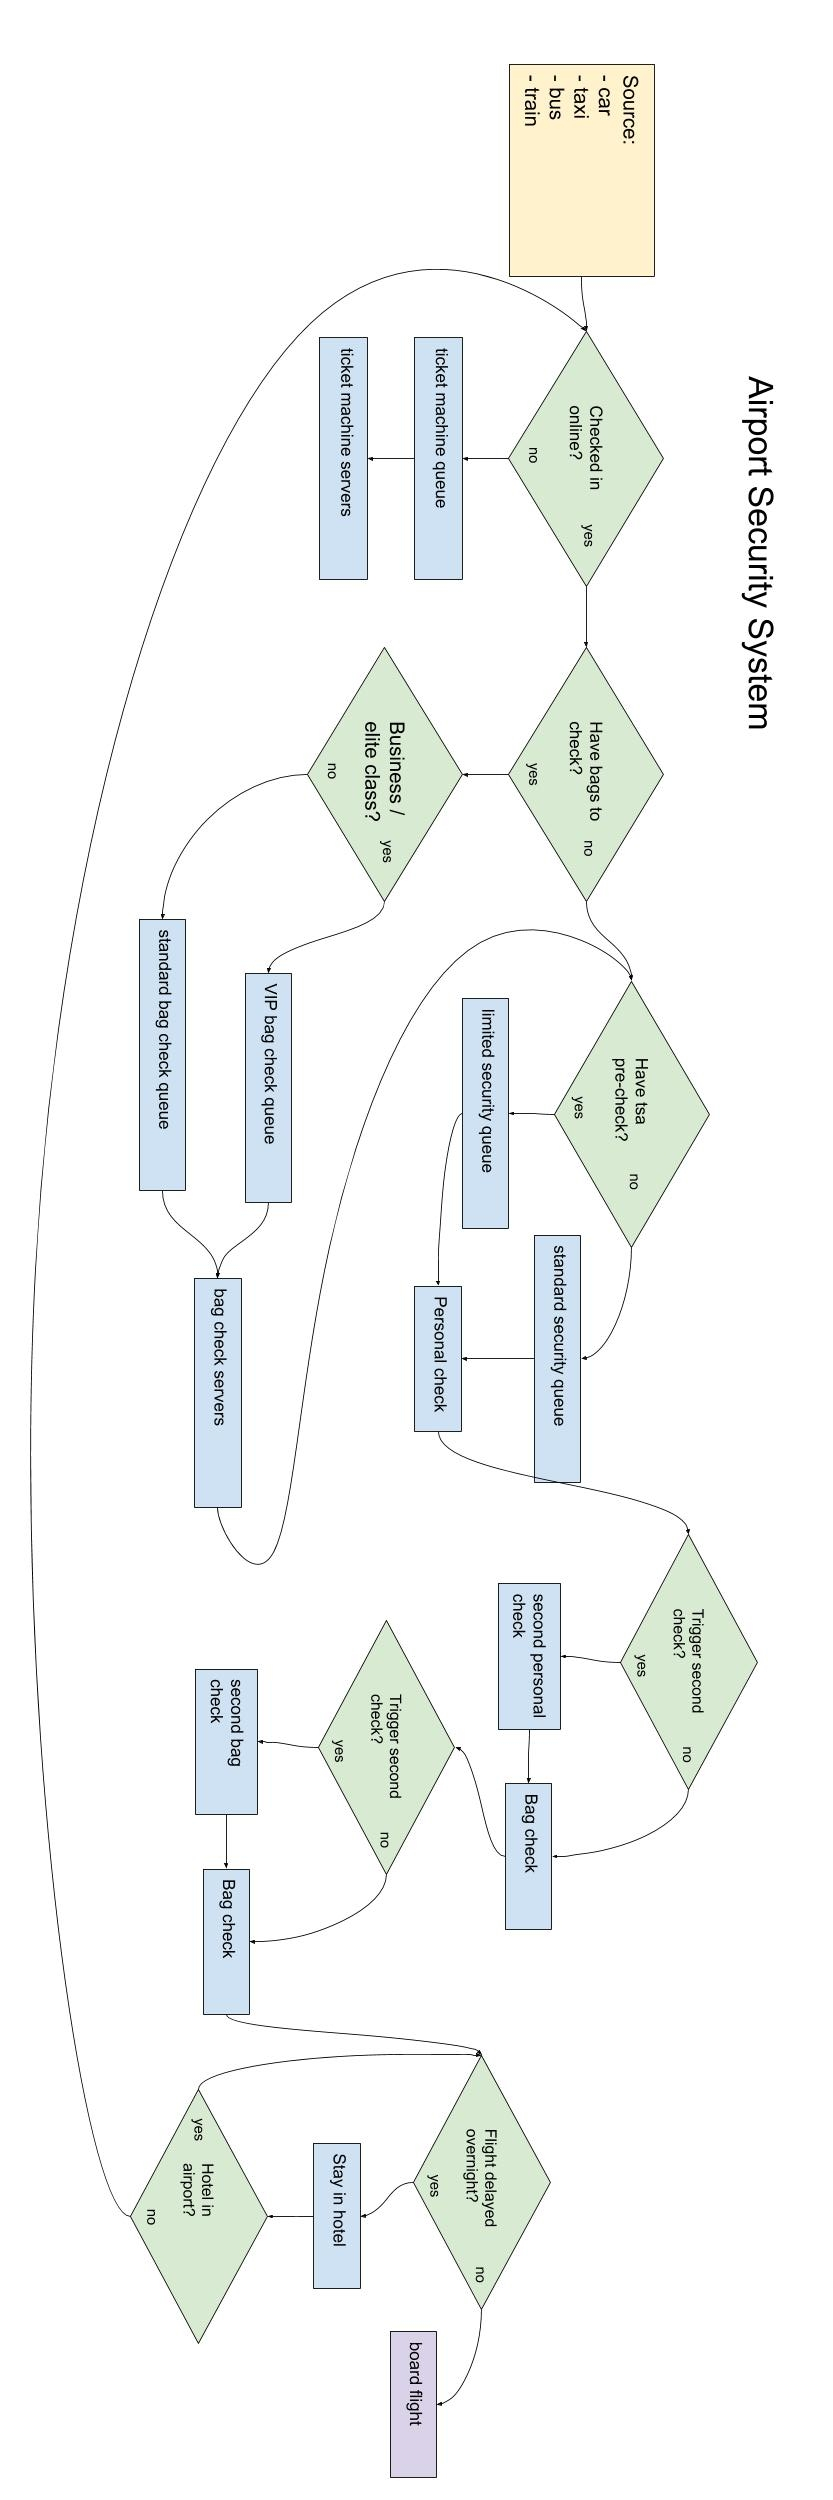
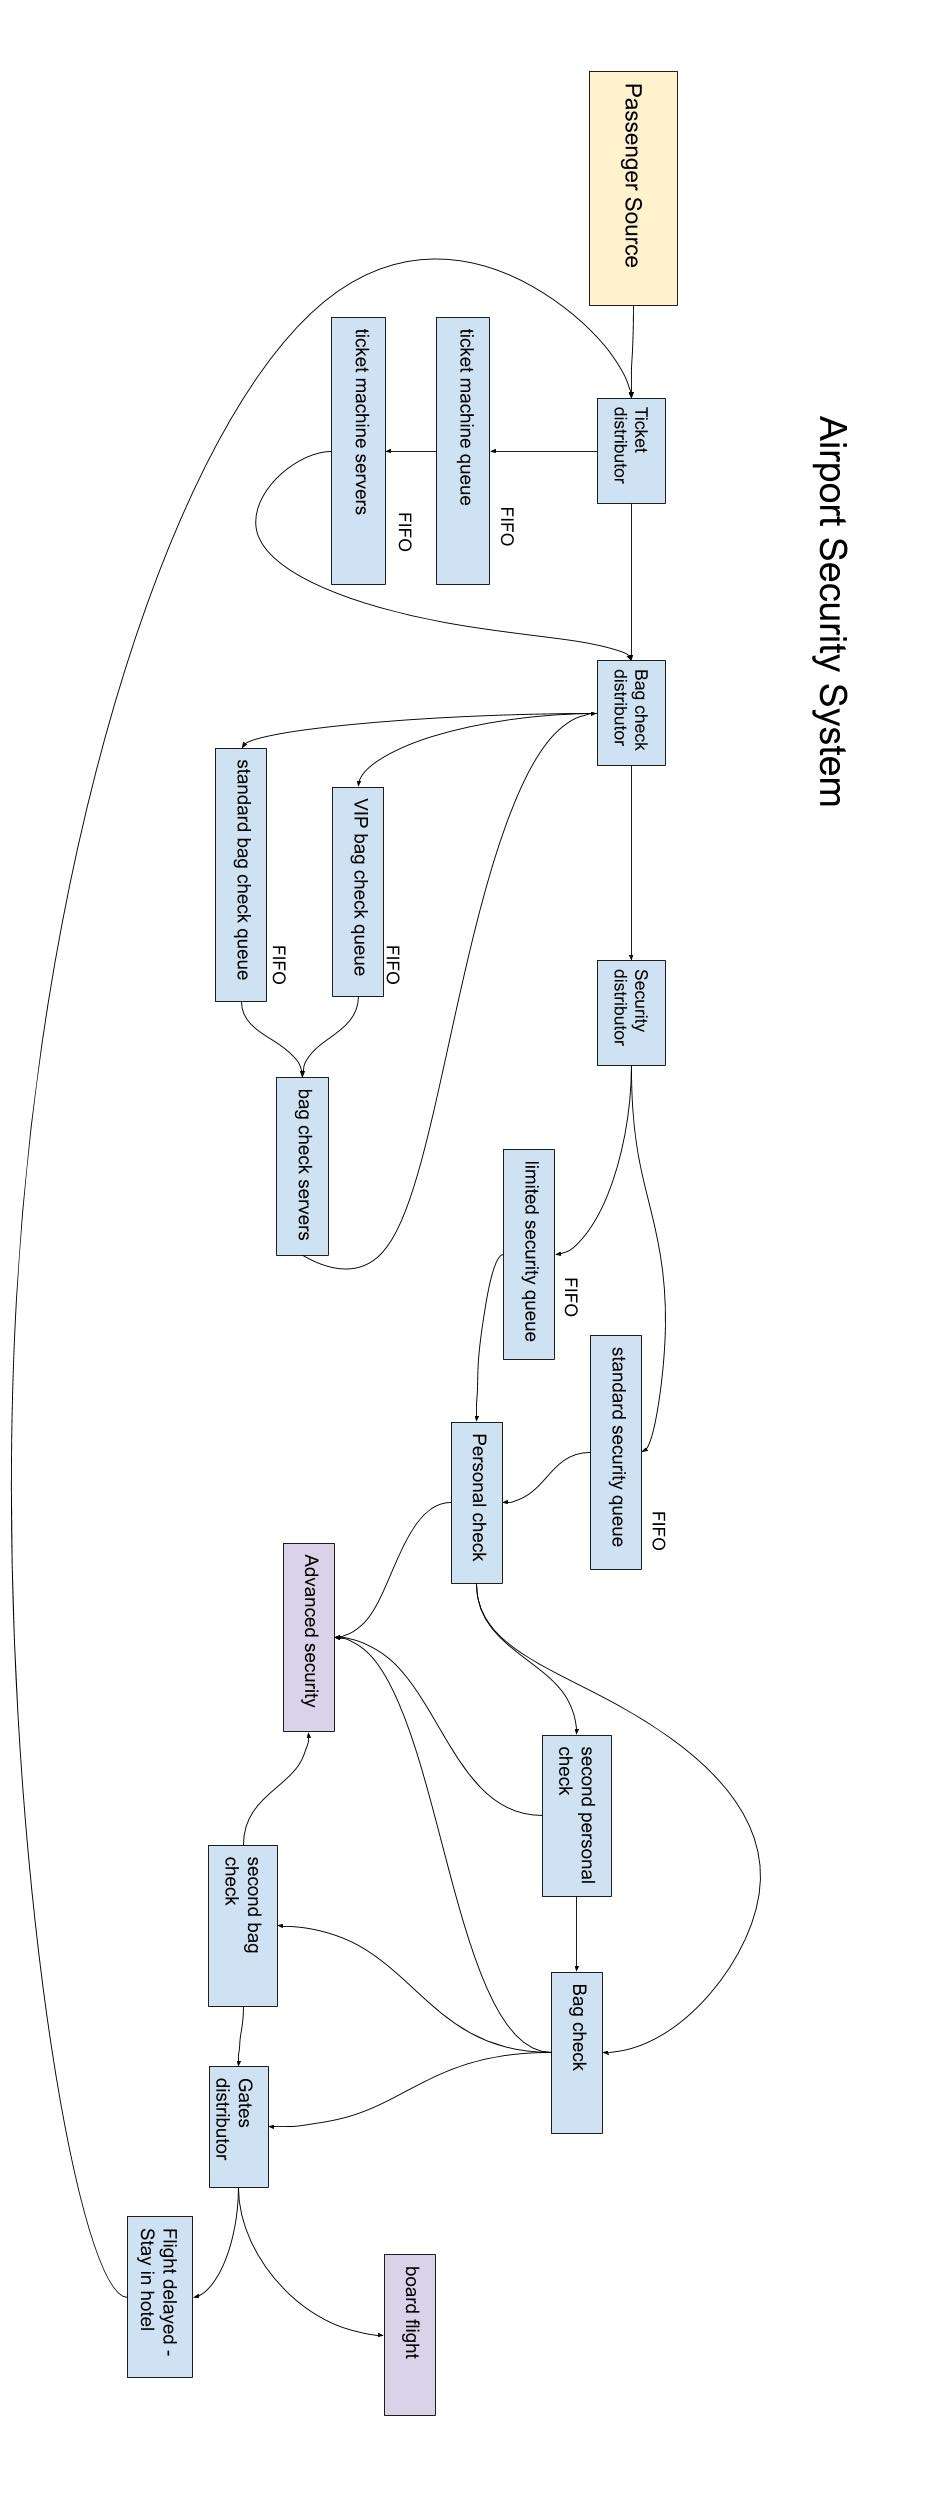
done with v2 of hw1b

diff --git a/hw/hw1b/README.md b/hw/hw1b/README.md
@@ -2,19 +2,27 @@
 
 *I pledge my honor that I have abided by the Stevens Honor System. - Joshua Schmidt* 1/30/2020
 
+## entities in the system
+
+- source of passengers
+- queues (lines)
+- servers for bag checks
+- distributors (signs, personnel) for directing people to VIP lines, security lines, etc.
+- security checks
+- extra security checks
+
 ## Attributes of airport security system
 
 - source
-  - what mode of transportation was used, and crowding at the source entry (traffic)
   - arrival distribution - when the travellers are arriving
 - ticket machine queue
   - physical length limitation of ticket machine queue
   - distribution of customers entering and leaving the queue
 - ticket machine servers
   - how many ticket machines there are
-  - how many steps are involved before receiving the ticket and confirming check-in
+  - how complicated the machine is for getting the ticket and confirming check-in
 - bag check queues
-  - how many vip customers there typically are
+  - how many vip customers there are
   - how many customers have checked bags
 - bag check servers
   - how many servers there are for the standard queue
@@ -31,7 +39,7 @@
   - frequency of second checks triggered for body scan
 - flight delays
   - distribution of flights delayed overnight, necessitating lodging
-  - if airport has lodging in the secure area
+  - if airport has lodging in the secure area or if people need to leave and repeat the security process the next day
 
 ![system diagram](./block_diagram.jpg){ width=100% }
 
